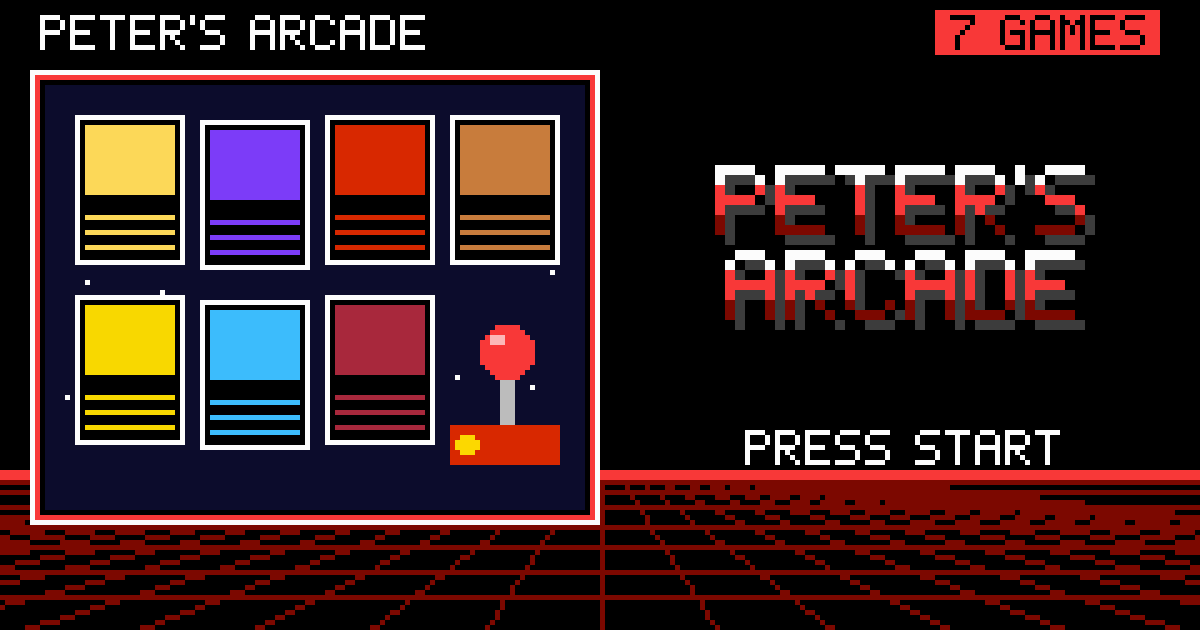
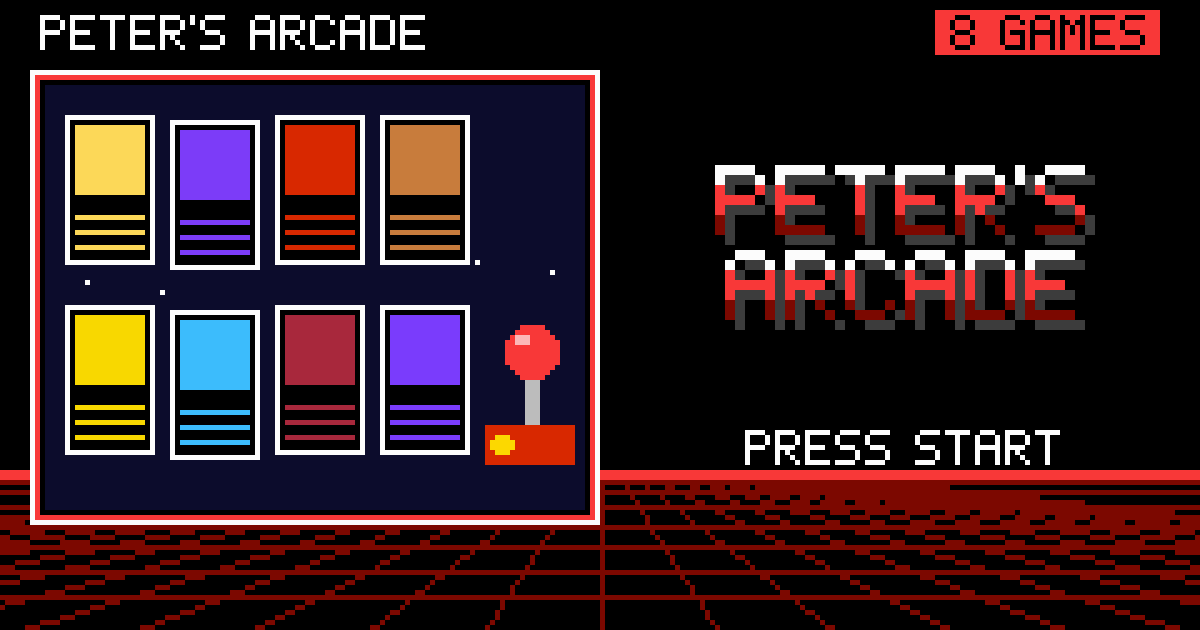
Add Lunar Rover Run; 8 games

Changed region(s): [[0.0308, 0.181, 0.4933, 0.754], [0.0308, 0.181, 0.0925, 0.4222], [0.7708, 0.0302, 0.8325, 0.0905]]

diff --git a/index.html b/index.html
@@ -1,5 +1,5 @@
 <!DOCTYPE html><html lang="en"><head><meta charset="utf-8"><meta name="viewport" content="width=device-width,initial-scale=1,viewport-fit=cover">
-<title>Peter's Arcade</title><!--og--><meta name="description" content="Peter&#x27;s Arcade: 7 family-friendly 8-bit style games in one place. Press Start!"><meta property="og:type" content="website"><meta property="og:site_name" content="Peter&#x27;s Arcade"><meta property="og:title" content="Peter&#x27;s Arcade"><meta property="og:description" content="Peter&#x27;s Arcade: 7 family-friendly 8-bit style games in one place. Press Start!"><meta property="og:url" content="https://ploug76.github.io/peters-arcade/"><meta property="og:image" content="https://ploug76.github.io/peters-arcade/cover.png"><meta property="og:image:secure_url" content="https://ploug76.github.io/peters-arcade/cover.png"><meta property="og:image:type" content="image/png"><meta property="og:image:width" content="1200"><meta property="og:image:height" content="630"><meta property="og:image:alt" content="Peter&#x27;s Arcade 8-bit game box cover"><meta name="twitter:card" content="summary_large_image"><meta name="twitter:title" content="Peter&#x27;s Arcade"><meta name="twitter:description" content="Peter&#x27;s Arcade: 7 family-friendly 8-bit style games in one place. Press Start!"><meta name="twitter:image" content="https://ploug76.github.io/peters-arcade/cover.png"><!--/og-->
+<title>Peter's Arcade</title><!--og--><meta name="description" content="Peter&#x27;s Arcade: 8 family-friendly 8-bit style games in one place. Press Start!"><meta property="og:type" content="website"><meta property="og:site_name" content="Peter&#x27;s Arcade"><meta property="og:title" content="Peter&#x27;s Arcade"><meta property="og:description" content="Peter&#x27;s Arcade: 8 family-friendly 8-bit style games in one place. Press Start!"><meta property="og:url" content="https://ploug76.github.io/peters-arcade/"><meta property="og:image" content="https://ploug76.github.io/peters-arcade/cover.png"><meta property="og:image:secure_url" content="https://ploug76.github.io/peters-arcade/cover.png"><meta property="og:image:type" content="image/png"><meta property="og:image:width" content="1200"><meta property="og:image:height" content="630"><meta property="og:image:alt" content="Peter&#x27;s Arcade 8-bit game box cover"><meta name="twitter:card" content="summary_large_image"><meta name="twitter:title" content="Peter&#x27;s Arcade"><meta name="twitter:description" content="Peter&#x27;s Arcade: 8 family-friendly 8-bit style games in one place. Press Start!"><meta name="twitter:image" content="https://ploug76.github.io/peters-arcade/cover.png"><!--/og-->
 <meta name="theme-color" content="#000000"><link rel="icon" href="cover.png">
 <style>
 html,body{margin:0;background:#000;color:#fcfcfc;font-family:"Courier New",ui-monospace,monospace}
@@ -13,6 +13,6 @@ main{display:grid;grid-template-columns:repeat(auto-fill,minmax(300px,1fr));gap:
 footer{text-align:center;color:#888;font-size:12px;padding:16px}
 </style></head><body>
 <header><h1>Peter's Arcade</h1><img src="cover-anim.gif" width="720" height="378" alt="Peter's Arcade 8-bit cover"><p class="sub">▶ PICK A GAME · PRESS START ◀</p></header>
-<main><a class="tile" href="https://ploug76.github.io/duncans-mess-up-fess-up-flight/"><img src="covers/duncans-mess-up-fess-up-flight.gif" width="720" height="378" alt="Duncan's Mess Up Fess Up Flight 8-bit box cover" loading="lazy"><b>Duncan's Mess Up Fess Up Flight</b><span>Fly through 99 levels of laws &amp; rules</span></a><a class="tile" href="https://ploug76.github.io/letter-traffic/"><img src="covers/letter-traffic.gif" width="720" height="378" alt="Letter Traffic 8-bit box cover" loading="lazy"><b>Letter Traffic</b><span>Spell sight words from the traffic</span></a><a class="tile" href="https://ploug76.github.io/kittys-chicken-corral/"><img src="covers/kittys-chicken-corral.gif" width="720" height="378" alt="Kitty's Chicken Corral 8-bit box cover" loading="lazy"><b>Kitty's Chicken Corral</b><span>Round up the runaway chickens</span></a><a class="tile" href="https://ploug76.github.io/suzys-potato-quest/"><img src="covers/suzys-potato-quest.gif" width="720" height="378" alt="Suzy's Potato Quest 8-bit box cover" loading="lazy"><b>Suzy's Potato Quest</b><span>Dig, dodge moles, mash potatoes</span></a><a class="tile" href="https://ploug76.github.io/hopes-prayer-warrior/"><img src="covers/hopes-prayer-warrior.gif" width="720" height="378" alt="Hope's Prayer Warrior 8-bit box cover" loading="lazy"><b>Hope's Prayer Warrior</b><span>Zap sin clouds with prayers</span></a><a class="tile" href="https://ploug76.github.io/j-woos-fishing-challenge/"><img src="covers/j-woos-fishing-challenge.gif" width="720" height="378" alt="J Woo's Fishing Challenge 8-bit box cover" loading="lazy"><b>J Woo's Fishing Challenge</b><span>Drive, cast and reel in the big ones</span></a><a class="tile" href="https://ploug76.github.io/jims-bible-challenge/"><img src="covers/jims-bible-challenge.gif" width="720" height="378" alt="Jim's Bible Challenge 8-bit box cover" loading="lazy"><b>Jim's Bible Challenge</b><span>Match KJV verses to references</span></a></main>
+<main><a class="tile" href="https://ploug76.github.io/duncans-mess-up-fess-up-flight/"><img src="covers/duncans-mess-up-fess-up-flight.gif" width="720" height="378" alt="Duncan's Mess Up Fess Up Flight 8-bit box cover" loading="lazy"><b>Duncan's Mess Up Fess Up Flight</b><span>Fly through 99 levels of laws &amp; rules</span></a><a class="tile" href="https://ploug76.github.io/letter-traffic/"><img src="covers/letter-traffic.gif" width="720" height="378" alt="Letter Traffic 8-bit box cover" loading="lazy"><b>Letter Traffic</b><span>Spell sight words from the traffic</span></a><a class="tile" href="https://ploug76.github.io/kittys-chicken-corral/"><img src="covers/kittys-chicken-corral.gif" width="720" height="378" alt="Kitty's Chicken Corral 8-bit box cover" loading="lazy"><b>Kitty's Chicken Corral</b><span>Round up the runaway chickens</span></a><a class="tile" href="https://ploug76.github.io/suzys-potato-quest/"><img src="covers/suzys-potato-quest.gif" width="720" height="378" alt="Suzy's Potato Quest 8-bit box cover" loading="lazy"><b>Suzy's Potato Quest</b><span>Dig, dodge moles, mash potatoes</span></a><a class="tile" href="https://ploug76.github.io/hopes-prayer-warrior/"><img src="covers/hopes-prayer-warrior.gif" width="720" height="378" alt="Hope's Prayer Warrior 8-bit box cover" loading="lazy"><b>Hope's Prayer Warrior</b><span>Zap sin clouds with prayers</span></a><a class="tile" href="https://ploug76.github.io/j-woos-fishing-challenge/"><img src="covers/j-woos-fishing-challenge.gif" width="720" height="378" alt="J Woo's Fishing Challenge 8-bit box cover" loading="lazy"><b>J Woo's Fishing Challenge</b><span>Drive, cast and reel in the big ones</span></a><a class="tile" href="https://ploug76.github.io/jims-bible-challenge/"><img src="covers/jims-bible-challenge.gif" width="720" height="378" alt="Jim's Bible Challenge 8-bit box cover" loading="lazy"><b>Jim's Bible Challenge</b><span>Match KJV verses to references</span></a><a class="tile" href="https://ploug76.github.io/lunar-rover-run/"><img src="covers/lunar-rover-run.gif" width="720" height="378" alt="Lunar Rover Run 8-bit box cover" loading="lazy"><b>Lunar Rover Run</b><span>Jump craters, blast UFOs, Point A to Z</span></a></main>
 <footer>Tap a box to play. Every game works on phones and can be installed to your home screen.</footer>
 </body></html>
